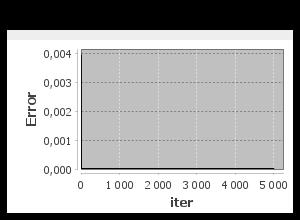
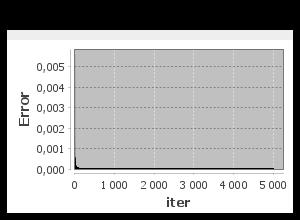
TestAgentNeuralChargeMockedData clean up

diff --git a/src/test/java/multi_step_td/charge/TestAgentNeuralChargeMockedData.java b/src/test/java/multi_step_td/charge/TestAgentNeuralChargeMockedData.java
@@ -17,6 +17,7 @@ import multi_step_temp_diff.domain.environments.charge.ChargeEnvironment;
 import multi_step_temp_diff.domain.environments.charge.ChargeEnvironmentLambdas;
 import multi_step_temp_diff.domain.environments.charge.ChargeState;
 import multi_step_temp_diff.domain.environments.charge.ChargeVariables;
+import multi_step_temp_diff.domain.normalizer.NormalizeMinMax;
 import multi_step_temp_diff.domain.normalizer.NormalizerMeanStd;
 import org.apache.commons.math3.util.Pair;
 import org.jetbrains.annotations.NotNull;
@@ -30,6 +31,10 @@ import java.util.Map;
 import java.util.function.BiPredicate;
 import java.util.function.Function;
 
+/***
+ * MeanStd normalizer gives massive improvement versus MinMax
+ */
+
 public class TestAgentNeuralChargeMockedData {
 
     private static final int BUFFER_SIZE = 10_000, NOF_ITERATIONS = 5_000;
@@ -42,7 +47,6 @@ public class TestAgentNeuralChargeMockedData {
     AgentChargeNeural agentCasted;
     EnvironmentInterface<ChargeVariables> environment;
     ChargeEnvironmentLambdas lambdas;
-
     ChargeEnvironment environmentCasted;
     ChargeEnvironmentSettings settings;
     int nofSiteNodes;
@@ -56,11 +60,11 @@ public class TestAgentNeuralChargeMockedData {
         nofSiteNodes = environmentCasted.getSettings().siteNodes().size();
         ChargeState initState = new ChargeState(ChargeVariables.builder().build());
         AgentChargeNeuralSettings agentSettings = AgentChargeNeuralSettings.builder()
-                //.valueNormalizer(new NormalizeMinMax(settings.rewardBad(),0))
-                .learningRate(0.5)
+                .learningRate(0.2)
                 .nofNeuronsHidden(10).transferFunctionType(TransferFunctionType.GAUSSIAN)
                 .nofLayersHidden(5)
                 .valueNormalizer(new NormalizerMeanStd(List.of(settings.rewardBad()*10,0d,-1d,-2d,0d,-1d,0d)))
+                //.valueNormalizer(new NormalizeMinMax(settings.rewardBad(),0))
                 .build();
 
         agent = AgentChargeNeural.builder()
@@ -80,22 +84,13 @@ public class TestAgentNeuralChargeMockedData {
     @Tag("nettrain")
     public void givenFixedValue_whenTrain_thenCorrect() {
         Function<ChargeState, Double> stateToValueFunction =(s) -> -0d;
-
-        ReplayBufferNStep<ChargeVariables> buffer = ReplayBufferNStep.<ChargeVariables>builder()
-                .buffer(createBuffer(stateToValueFunction)).build();
-
-      //  System.out.println("buffer = " + buffer);
-
-        for (int i = 0; i < NOF_ITERATIONS; i++) {
-            agent.learn(buffer.getMiniBatch(BATCH_LENGTH));
-        }
-
+        ReplayBufferNStep<ChargeVariables> buffer = createExpReplayBuffer(stateToValueFunction);
+        trainAgent(buffer);
         plotAndSaveErrorHistory("fixed");
 
         for (int i = 0; i < 10; i++) {
             ChargeState state = stateRandomPosAndSoC();
             double valueLearned = agent.readValue(state);
-            System.out.println("valueLearned = " + valueLearned);
             Assertions.assertEquals(stateToValueFunction.apply(state),valueLearned, DELTA);
         }
 
@@ -117,33 +112,43 @@ public class TestAgentNeuralChargeMockedData {
                     :0d;
         };
 
-        ReplayBufferNStep<ChargeVariables> buffer = ReplayBufferNStep.<ChargeVariables>builder()
-                .buffer(createBuffer(stateToValueFunction)).build();
-
- //       System.out.println("buffer = " + buffer);
-
-        for (int i = 0; i < NOF_ITERATIONS; i++) {
-            if(i % ITERATIONS_BETWEEN_PRINTI ==0)
-                System.out.println("i = " + i);
-            agent.learn(buffer.getMiniBatch(BATCH_LENGTH));
-        }
-
+        ReplayBufferNStep<ChargeVariables> buffer = createExpReplayBuffer(stateToValueFunction);
+        trainAgent(buffer);
         plotAndSaveErrorHistory("rule");
+        Map<Integer, Pair<Double, Double>> valueMap = createValueMap(stateToValueFunction);
+        printAndAsserValueMap(valueMap);
 
+    }
 
+    private static void printAndAsserValueMap(Map<Integer, Pair<Double, Double>> valueMap) {
+        valueMap.keySet().forEach(i -> System.out.println(valueMap.get(i)));
+        for (Integer i: valueMap.keySet()) {
+            Assertions.assertEquals(valueMap.get(i).getFirst(), valueMap.get(i).getSecond(),DELTA);
+        }
+    }
+
+    @NotNull
+    private Map<Integer, Pair<Double, Double>> createValueMap(Function<ChargeState, Double> stateToValueFunction) {
         Map<Integer, Pair<Double,Double>> valueMap=new HashMap<>();
         for (int i = 0; i < 10; i++) {
             ChargeState state = stateRandomPosAndSoC();
             double valueLearned = agent.readValue(state);
             valueMap.put(i, new Pair<>(stateToValueFunction.apply(state),valueLearned));
         }
+        return valueMap;
+    }
 
-        valueMap.keySet().forEach(i -> System.out.println(valueMap.get(i)));
+    private ReplayBufferNStep<ChargeVariables> createExpReplayBuffer(Function<ChargeState, Double> stateToValueFunction) {
+        return ReplayBufferNStep.<ChargeVariables>builder()
+                .buffer(createBuffer(stateToValueFunction)).build();
+    }
 
-        for (Integer i:valueMap.keySet()) {
-            Assertions.assertEquals(valueMap.get(i).getFirst(),valueMap.get(i).getSecond(),DELTA);
+    private void trainAgent(ReplayBufferNStep<ChargeVariables> buffer) {
+        for (int i = 0; i < NOF_ITERATIONS; i++) {
+            if(i % ITERATIONS_BETWEEN_PRINTI ==0)
+                System.out.println("i = " + i);
+            agent.learn(buffer.getMiniBatch(BATCH_LENGTH));
         }
-
     }
 
 
